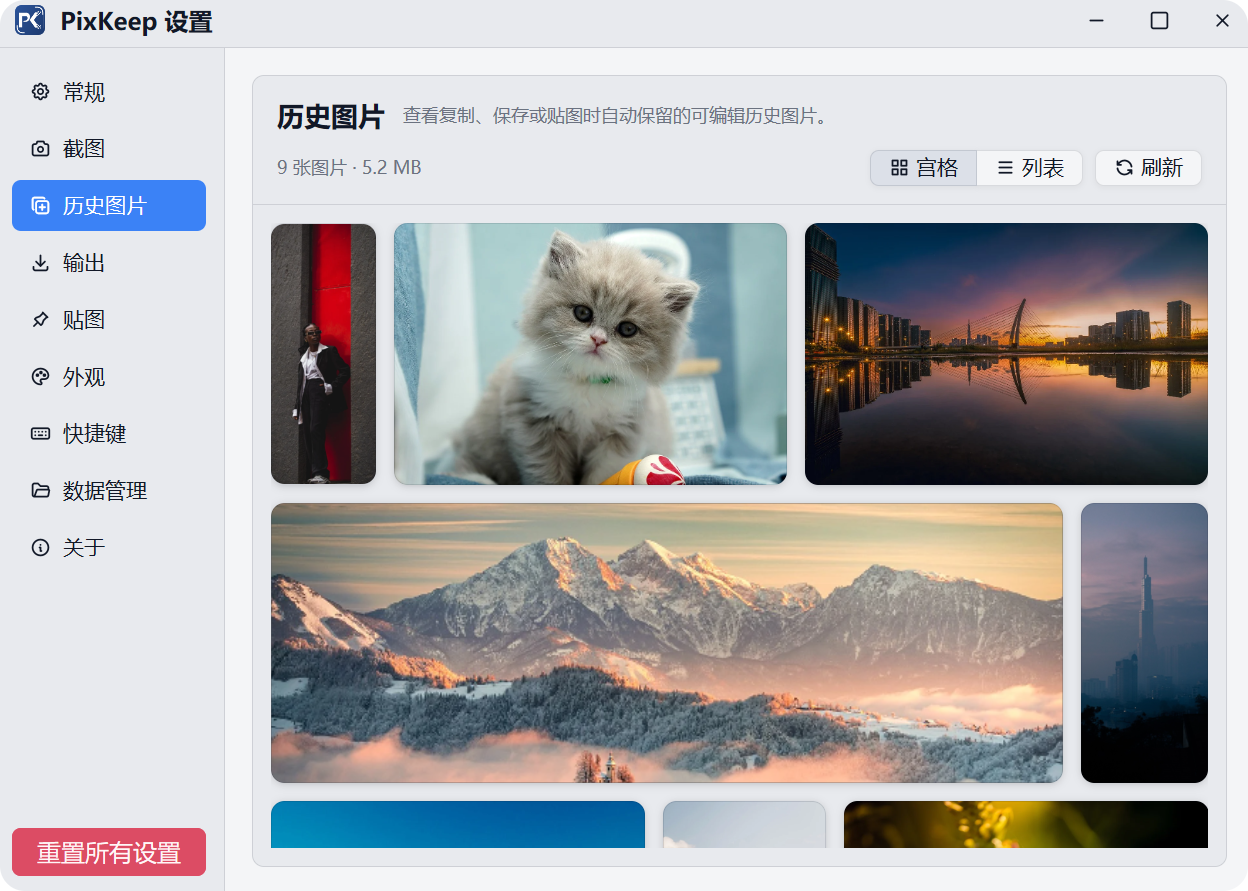
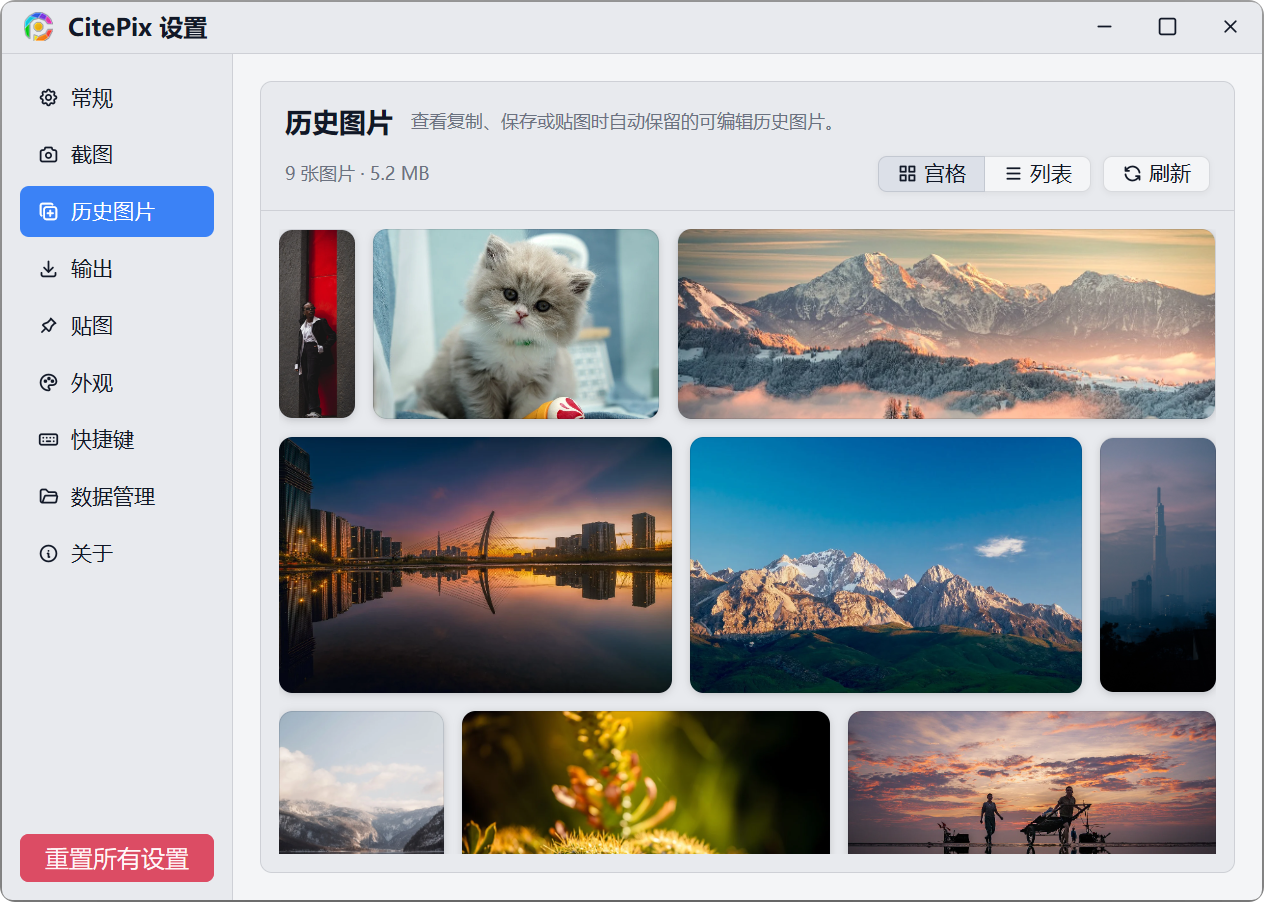
chore: 将原名PixKeep改名为CitePix，并更新相关资源

diff --git a/README.md b/README.md
@@ -1,12 +1,12 @@
-# PixKeep
+# CitePix
 
 > 不只截一张图，更把重要内容留在手边、随时继续处理。
 
-PixKeep 是一款面向 Windows 的高性能截图、编辑与贴图工具。它将截图、OCR、标注、保存和桌面贴图整合为一条顺畅流程，特别适合需要反复整理、长期参考和快速输出图片的场景。
+CitePix 是一款面向 Windows 的高性能截图、编辑与贴图工具。它将截图、OCR、标注、保存和桌面贴图整合为一条顺畅流程，特别适合需要反复整理、长期参考和快速输出图片的场景。
 
 ## 核心优势
 
-- **截图不是一次性的**：复制、保存、快速保存或创建贴图后，PixKeep 会保留可再次编辑的历史图片。以后仍能重新标注、裁剪、调整马赛克或水印，再保存为新版本；重要内容不必因为一次操作失误而从头再来。
+- **截图不是一次性的**：复制、保存、快速保存或创建贴图后，CitePix 会保留可再次编辑的历史图片。以后仍能重新标注、裁剪、调整马赛克或水印，再保存为新版本；重要内容不必因为一次操作失误而从头再来。
 - **万能贴图，选中什么就贴什么**：在其他应用中选中文本、富文本、图片、文件或文件夹，通过全局快捷键即可创建对应贴图。文本可读、图片可看、文件会生成信息卡片，让参考资料、待办内容和常用文件始终留在桌面上。
 - **为响应速度而生**：以 Rust 构建，结合 GPU 加速渲染、画布缓存与分块处理，大尺寸截图、长图和复杂标注也能保持流畅；空闲时可自动优化内存占用。截图提供自动、高性能、现代和兼容等多种方式，并支持多显示器和高 DPI 场景。
 - **截图、贴图使用同一套编辑能力**：画笔、文本、箭头、形状、序号、马赛克/模糊、边框和水印都可用于截图与贴图。贴图还能继续编辑，并分别导出原图或编辑后的图片。
@@ -58,19 +58,19 @@ PixKeep 是一款面向 Windows 的高性能截图、编辑与贴图工具。它
 
 ## 一次截图，后续都能处理
 
-PixKeep 支持自动窗口/元素选区、像素放大镜、颜色采样和精确选区调整。完成截图后，可立即复制到剪贴板、另存为、快速保存至指定目录、创建置顶贴图，或保留到历史图片中继续处理。
+CitePix 支持自动窗口/元素选区、像素放大镜、颜色采样和精确选区调整。完成截图后，可立即复制到剪贴板、另存为、快速保存至指定目录、创建置顶贴图，或保留到历史图片中继续处理。
 
 需要长图时，长截屏支持自动滚动、预览和裁剪，并可直接复制、保存或贴到屏幕。输出支持 PNG、JPG、JPEG、WebP、BMP，以及按时间、窗口标题、图片尺寸等信息自动命名。
 
 贴图支持置顶、缩放、透明度、鼠标穿透、缩略图、位置/缩放锁定和分组保存。配合可自定义的全局快捷键、托盘菜单、工具栏和参数记忆，可以把最常用的动作压缩到最少步骤。
 
-PixKeep 提供简体中文与 English，支持浅色、深色和跟随系统外观。当前主要面向 Windows 桌面环境；长截屏选区需位于同一台显示器内。
+CitePix 提供简体中文与 English，支持浅色、深色和跟随系统外观。当前主要面向 Windows 桌面环境；长截屏选区需位于同一台显示器内。
 
 ## 反馈与发布
 
-PixKeep 为私有闭源应用；本仓库仅用于发布说明、问题反馈和使用交流，不包含主项目源代码。
+CitePix 为私有闭源应用；本仓库仅用于发布说明、问题反馈和使用交流，不包含主项目源代码。
 
-- [提交问题或建议](https://github.com/mosheng1/PixKeep-feedback/issues)
-- [查看发布说明](https://github.com/mosheng1/PixKeep-feedback/releases)
+- [提交问题或建议](https://github.com/mosheng1/CitePix-feedback/issues)
+- [查看发布说明](https://github.com/mosheng1/CitePix-feedback/releases)
 
-反馈问题时，请附上 PixKeep 版本、Windows 版本、复现步骤、预期结果与实际结果。涉及截图问题时，可补充显示器数量、缩放比例和相关设置；请勿上传包含敏感信息的原图。
+反馈问题时，请附上 CitePix 版本、Windows 版本、复现步骤、预期结果与实际结果。涉及截图问题时，可补充显示器数量、缩放比例和相关设置；请勿上传包含敏感信息的原图。
